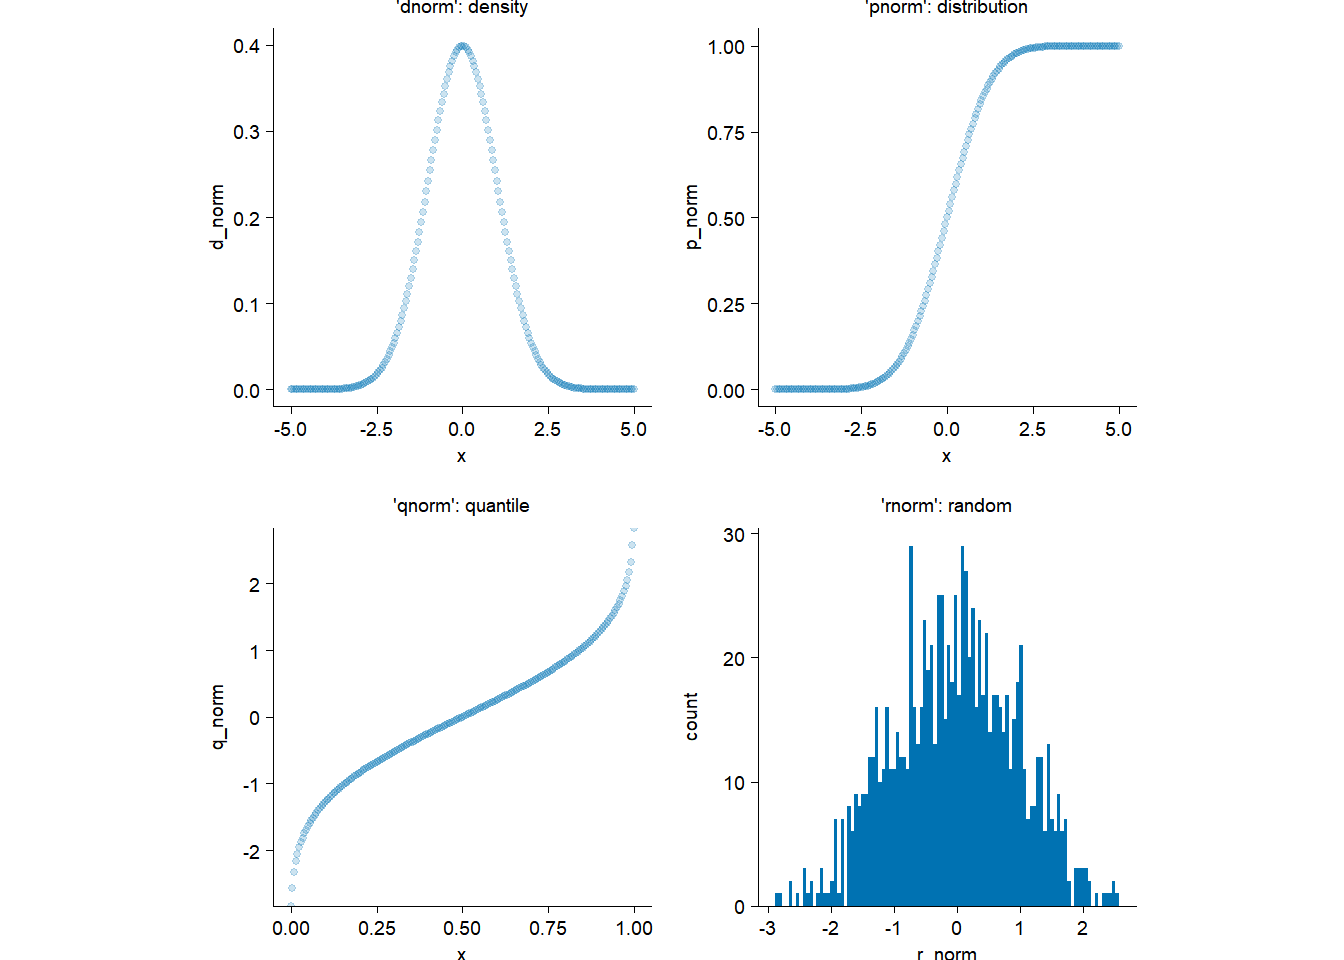
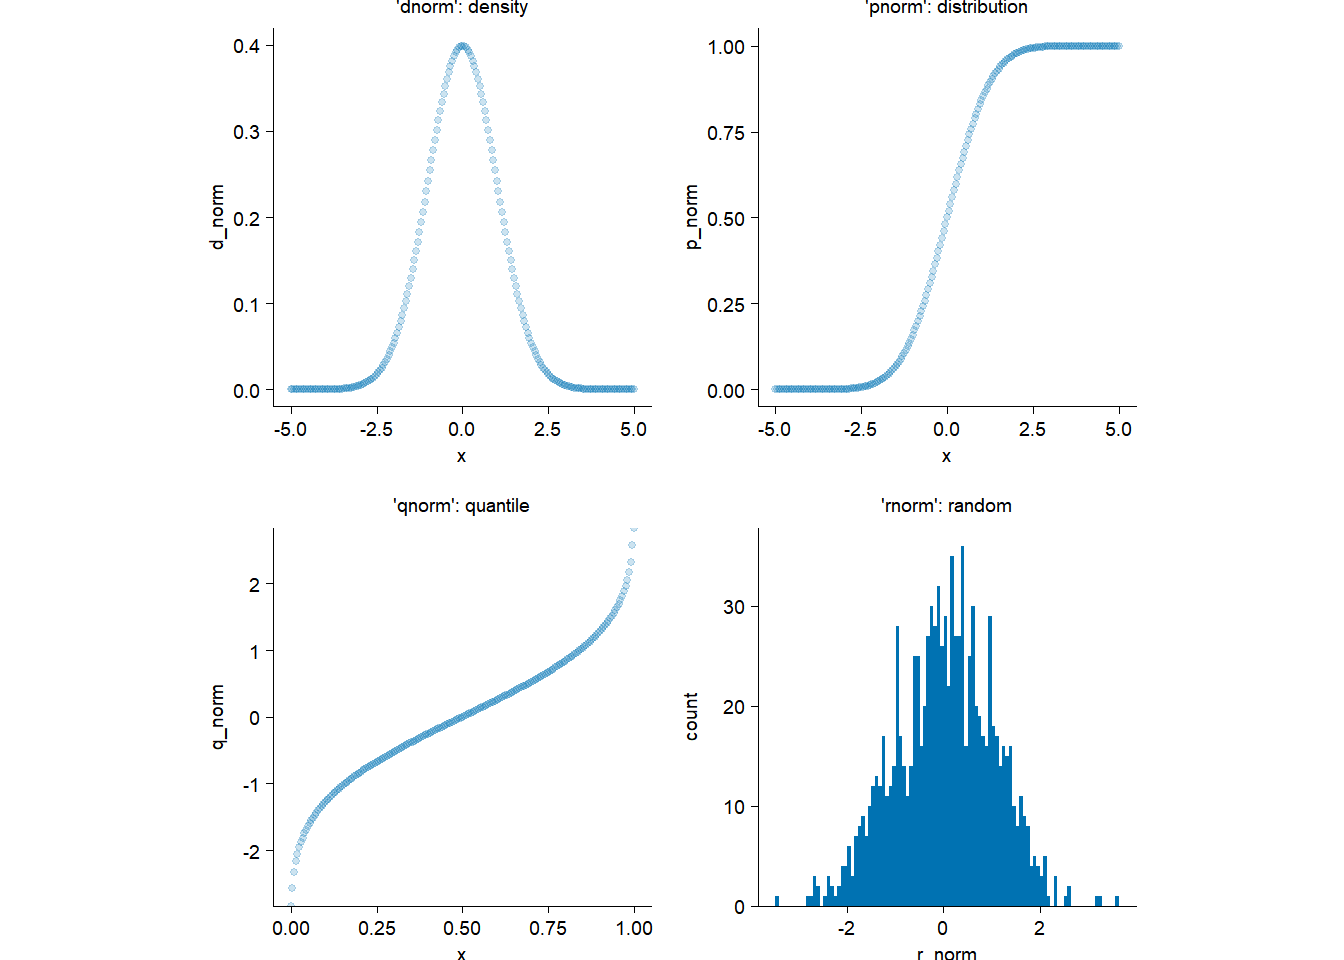
sleep_duration

diff --git a/_book/often_1.html b/_book/often_1.html
@@ -350,6 +350,7 @@ pre > code.sourceCode > span > a:first-child::before { text-decoration: underlin
   <li><a href="#character-vs.-objectargument" id="toc-character-vs.-objectargument" class="nav-link" data-scroll-target="#character-vs.-objectargument"><span class="header-section-number">1.7</span> Character vs.&nbsp;object/argument</a></li>
   <li><a href="#add-percent-annotation" id="toc-add-percent-annotation" class="nav-link" data-scroll-target="#add-percent-annotation"><span class="header-section-number">1.8</span> Add percent annotation</a></li>
   <li><a href="#display-empty-levels" id="toc-display-empty-levels" class="nav-link" data-scroll-target="#display-empty-levels"><span class="header-section-number">1.9</span> Display empty levels</a></li>
+  <li><a href="#how-long-does-my-junior-high-school-daughter-sleep-on-weekdays" id="toc-how-long-does-my-junior-high-school-daughter-sleep-on-weekdays" class="nav-link" data-scroll-target="#how-long-does-my-junior-high-school-daughter-sleep-on-weekdays"><span class="header-section-number">1.10</span> How long does my junior high school daughter sleep on weekdays?</a></li>
   </ul>
 </nav>
     </div>
@@ -498,7 +499,7 @@ pre > code.sourceCode > span > a:first-child::before { text-decoration: underlin
     }
     plot
 }
-&lt;bytecode: 0x0000014b99a12af8&gt;
+&lt;bytecode: 0x00000234e494b820&gt;
 &lt;environment: namespace:tidyplots&gt;</code></pre>
 </div>
 <div class="code-copy-outer-scaffold"><div class="sourceCode cell-code" id="cb18"><pre class="sourceCode r code-with-copy"><code class="sourceCode r"><span id="cb18-1"><a href="#cb18-1" aria-hidden="true" tabindex="-1"></a>ggplot2<span class="sc">::</span>faithfuld <span class="sc">|&gt;</span> </span>
@@ -1149,6 +1150,53 @@ Adding another scale for x, which will replace the existing scale.</code></pre>
 </div>
 </div>
 </div>
+</section>
+<section id="how-long-does-my-junior-high-school-daughter-sleep-on-weekdays" class="level2" data-number="1.10">
+<h2 data-number="1.10" class="anchored" data-anchor-id="how-long-does-my-junior-high-school-daughter-sleep-on-weekdays"><span class="header-section-number">1.10</span> How long does my junior high school daughter sleep on weekdays?</h2>
+<div class="cell">
+<div class="code-copy-outer-scaffold"><div class="sourceCode cell-code" id="cb90"><pre class="sourceCode r code-with-copy"><code class="sourceCode r"><span id="cb90-1"><a href="#cb90-1" aria-hidden="true" tabindex="-1"></a><span class="fu">library</span>(tidyplots)</span>
+<span id="cb90-2"><a href="#cb90-2" aria-hidden="true" tabindex="-1"></a></span>
+<span id="cb90-3"><a href="#cb90-3" aria-hidden="true" tabindex="-1"></a>df <span class="ot">&lt;-</span> tibble<span class="sc">::</span><span class="fu">tibble</span>(</span>
+<span id="cb90-4"><a href="#cb90-4" aria-hidden="true" tabindex="-1"></a>  <span class="at">sleep_at =</span> lubridate<span class="sc">::</span><span class="fu">ymd_hm</span>(</span>
+<span id="cb90-5"><a href="#cb90-5" aria-hidden="true" tabindex="-1"></a>    <span class="fu">paste</span>(</span>
+<span id="cb90-6"><a href="#cb90-6" aria-hidden="true" tabindex="-1"></a>      <span class="fu">Sys.Date</span>(), </span>
+<span id="cb90-7"><a href="#cb90-7" aria-hidden="true" tabindex="-1"></a>      <span class="st">"23:30"</span>, </span>
+<span id="cb90-8"><a href="#cb90-8" aria-hidden="true" tabindex="-1"></a>      <span class="at">sep =</span> <span class="st">" "</span>)</span>
+<span id="cb90-9"><a href="#cb90-9" aria-hidden="true" tabindex="-1"></a>    ), <span class="co"># the deadline, sometimes earlier</span></span>
+<span id="cb90-10"><a href="#cb90-10" aria-hidden="true" tabindex="-1"></a>  <span class="at">get_up_at =</span> lubridate<span class="sc">::</span><span class="fu">ymd_hm</span>(</span>
+<span id="cb90-11"><a href="#cb90-11" aria-hidden="true" tabindex="-1"></a>    <span class="fu">paste</span>(</span>
+<span id="cb90-12"><a href="#cb90-12" aria-hidden="true" tabindex="-1"></a>      <span class="fu">Sys.Date</span>() <span class="sc">+</span> <span class="dv">1</span>, </span>
+<span id="cb90-13"><a href="#cb90-13" aria-hidden="true" tabindex="-1"></a>      <span class="st">"6:50"</span>, </span>
+<span id="cb90-14"><a href="#cb90-14" aria-hidden="true" tabindex="-1"></a>      <span class="at">sep =</span> <span class="st">" "</span>)</span>
+<span id="cb90-15"><a href="#cb90-15" aria-hidden="true" tabindex="-1"></a>    ), <span class="co"># fixed time</span></span>
+<span id="cb90-16"><a href="#cb90-16" aria-hidden="true" tabindex="-1"></a>  <span class="at">seconds =</span> (get_up_at <span class="sc">-</span> sleep_at) <span class="sc">|&gt;</span> </span>
+<span id="cb90-17"><a href="#cb90-17" aria-hidden="true" tabindex="-1"></a>    lubridate<span class="sc">::</span><span class="fu">as.duration</span>(),</span>
+<span id="cb90-18"><a href="#cb90-18" aria-hidden="true" tabindex="-1"></a>  <span class="at">hours =</span> seconds <span class="sc">/</span> <span class="dv">3600</span>, <span class="co"># 3600s per hour</span></span>
+<span id="cb90-19"><a href="#cb90-19" aria-hidden="true" tabindex="-1"></a>  <span class="at">sleep_duration =</span> <span class="st">"sleep_duration"</span></span>
+<span id="cb90-20"><a href="#cb90-20" aria-hidden="true" tabindex="-1"></a>)</span>
+<span id="cb90-21"><a href="#cb90-21" aria-hidden="true" tabindex="-1"></a>df</span></code></pre></div><button title="Copy to Clipboard" class="code-copy-button"><i class="bi"></i></button></div>
+<div class="cell-output cell-output-stdout">
+<pre><code># A tibble: 1 × 5
+  sleep_at            get_up_at           seconds              hours            
+  &lt;dttm&gt;              &lt;dttm&gt;              &lt;Duration&gt;           &lt;Duration&gt;       
+1 2026-11-21 23:30:00 2026-11-22 06:50:00 26400s (~7.33 hours) 7.33333333333333s
+# ℹ 1 more variable: sleep_duration &lt;chr&gt;</code></pre>
+</div>
+<div class="code-copy-outer-scaffold"><div class="sourceCode cell-code" id="cb92"><pre class="sourceCode r code-with-copy"><code class="sourceCode r"><span id="cb92-1"><a href="#cb92-1" aria-hidden="true" tabindex="-1"></a>df <span class="sc">|&gt;</span> </span>
+<span id="cb92-2"><a href="#cb92-2" aria-hidden="true" tabindex="-1"></a>  <span class="fu">tidyplot</span>(<span class="at">x =</span> sleep_duration, <span class="at">y =</span> hours) <span class="sc">|&gt;</span> </span>
+<span id="cb92-3"><a href="#cb92-3" aria-hidden="true" tabindex="-1"></a>  <span class="fu">add_sum_bar</span>() <span class="sc">|&gt;</span> </span>
+<span id="cb92-4"><a href="#cb92-4" aria-hidden="true" tabindex="-1"></a>  <span class="fu">add_sum_value</span>(<span class="at">fontsize =</span> <span class="dv">12</span>) <span class="sc">|&gt;</span> </span>
+<span id="cb92-5"><a href="#cb92-5" aria-hidden="true" tabindex="-1"></a>  <span class="fu">remove_x_axis_labels</span>() <span class="sc">|&gt;</span> </span>
+<span id="cb92-6"><a href="#cb92-6" aria-hidden="true" tabindex="-1"></a>  <span class="fu">add_caption</span>(<span class="at">caption =</span> <span class="st">"7.3h means 7h 18min, not 7h 30min"</span>)</span></code></pre></div><button title="Copy to Clipboard" class="code-copy-button"><i class="bi"></i></button></div>
+<div class="cell-output-display">
+<div>
+<figure class="figure">
+<p><img src="often_1_files/figure-html/unnamed-chunk-23-1.png" class="img-fluid figure-img" width="672"></p>
+</figure>
+</div>
+</div>
+</div>
+<p>Sleeping at 23:30 does not mean finishing homework at that time. It simply means that student might be used to going to bed at that time.</p>
 
 
 </section>
